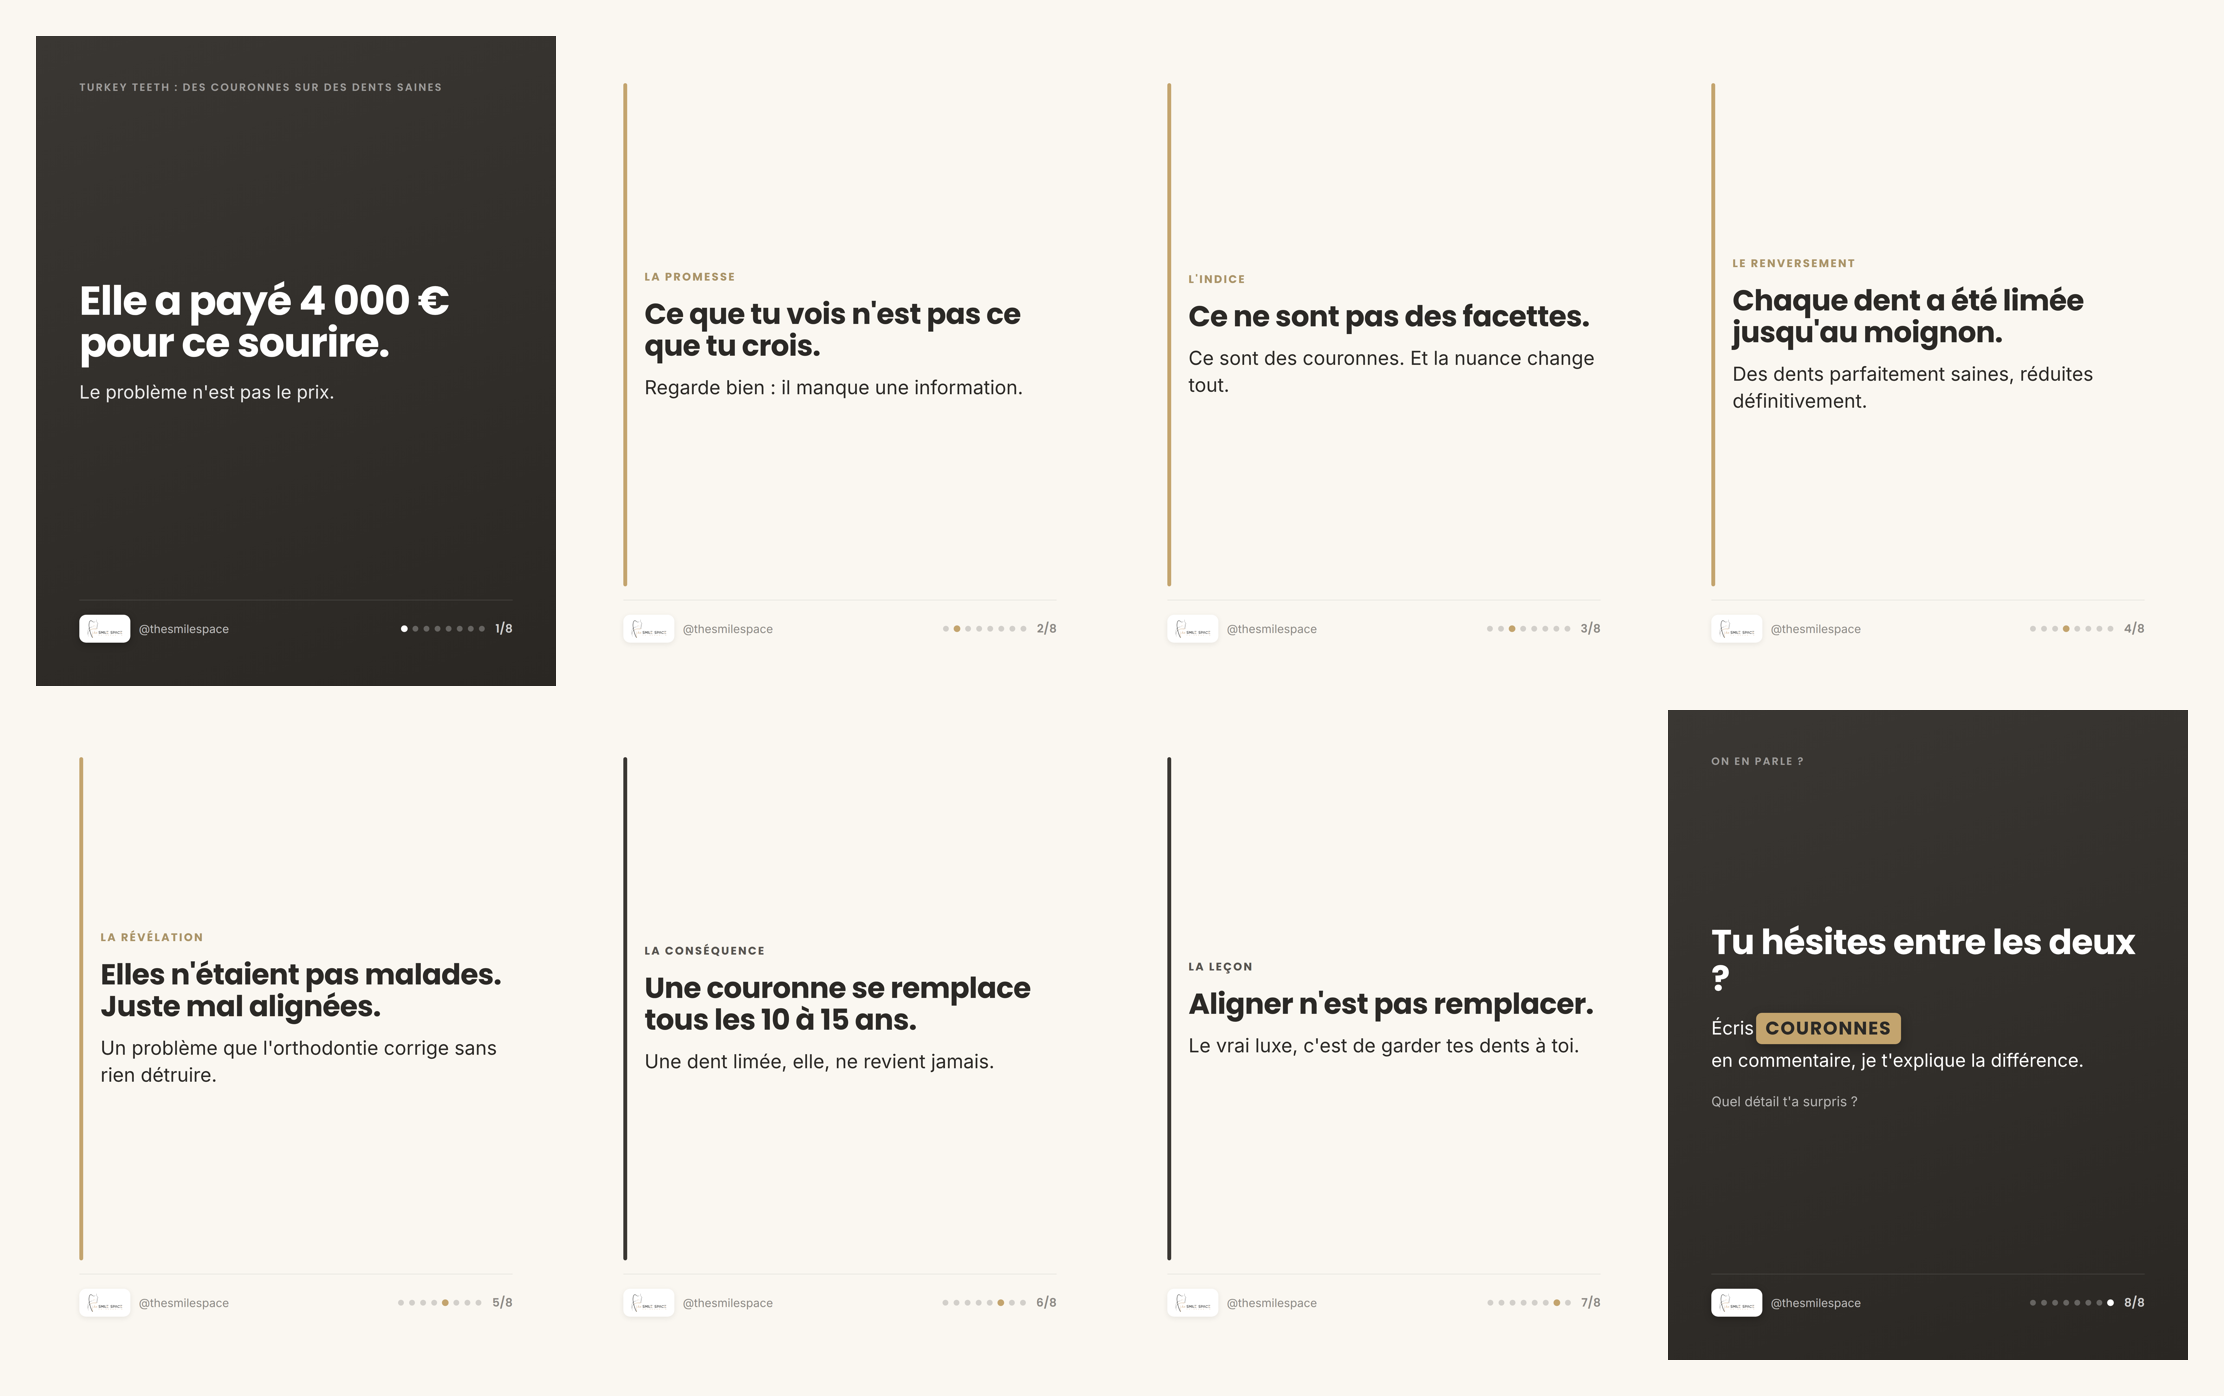
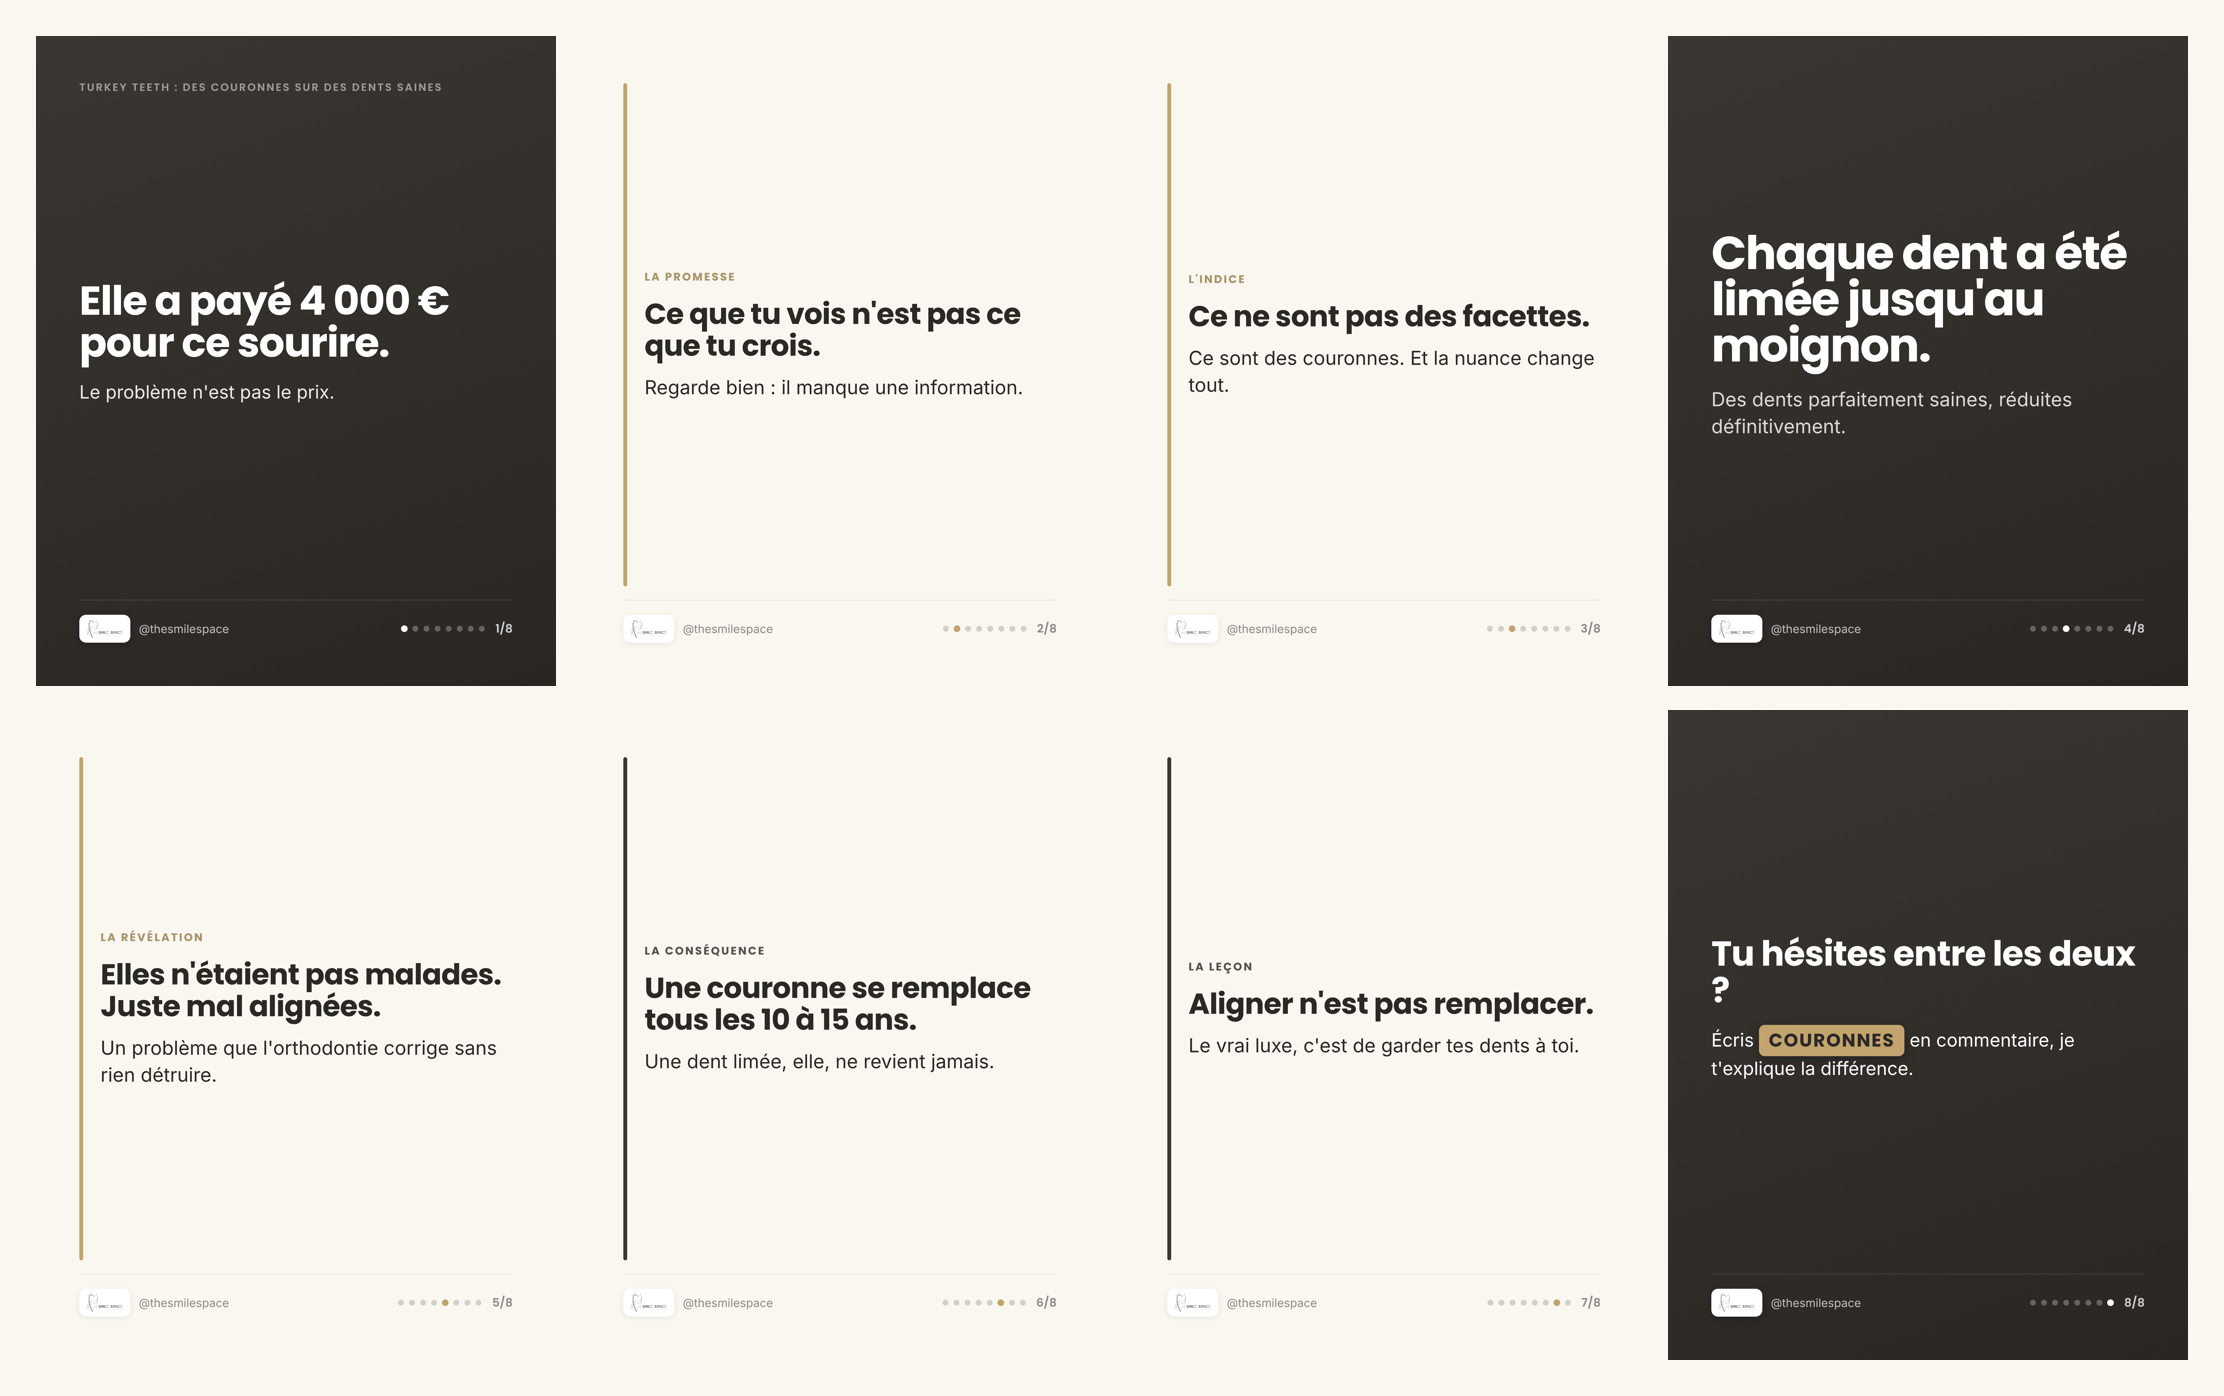
Gabarit v2.3 : renversement plein sombre + CTA titre/texte + zones image par marqueurs
- renversement (curiosity_loop) : fond sombre plein, titre XXL, sans image
- cta : titre + texte uniquement (mot-clé après « Écris » surligné depuis le
  texte, sans lire de métadonnée) ; plus d'eyebrow ni de cta_engagement
- métadonnées reel/gabarit/cta_conversion/cta_engagement jamais dessinées
- zones image pilotées par marqueurs [..] dans le texte (placeholder légendé)
- config.js : remplace photoTypes par la détection de marqueurs
- échantillon validé : TSS-ORTHO-021 (curiosity_loop, 8 slides) re-rendu

Claude-Session: https://claude.ai/code/session_014brP78CXMSfVZFDbExkY7E

Changed region(s): [[0.7446, 0.0, 0.9928, 0.4928], [0.7756, 0.6468, 0.9618, 0.8009]]

diff --git a/template.js b/template.js
@@ -1,7 +1,11 @@
 // =====================================================================
-//  GABARIT — une slide = 1080 x 1350
-//  Système piloté par le RÔLE de chaque slide (schéma 27 carrousels).
-//  Rôles : cover (hook) · closer (cta) · visual (photo) · text (éditorial)
+//  GABARIT — une slide = 1080 x 1350  (schéma 27 carrousels, v2.3)
+//  Piloté par le rôle de chaque slide :
+//    hook -> couverture sombre · cta -> clôture sombre
+//    renversement -> pic de tension sombre plein (curiosity_loop)
+//    marqueur [..] dans le texte -> zone image placeholder
+//    sinon -> contenu éditorial (badge/kicker + titre + texte)
+//  Métadonnées jamais dessinées : reel, gabarit, cta_conversion, cta_engagement.
 // =====================================================================
 
 const esc = (s = "") =>
@@ -11,10 +15,9 @@ const esc = (s = "") =>
     .replace(/>/g, "&gt;")
     .replace(/"/g, "&quot;");
 
-// Métadonnées par type de slide : libellé de badge + tonalité (couleur du filet/badge).
-//   tone: "accent" (or, insight/twist) · "brand" (anthracite, solution/action) · "plain" (explicatif)
+// Métadonnées par type : libellé + tonalité (couleur du filet/badge)
+//   accent = or (insight/twist) · brand = anthracite (solution/action) · plain = neutre
 const TYPE_META = {
-  // révélation / bascule / insight -> or
   revelation: { label: "LA RÉVÉLATION", tone: "accent" },
   renversement: { label: "LE RENVERSEMENT", tone: "accent" },
   mythe: { label: "LE MYTHE", tone: "accent" },
@@ -22,11 +25,8 @@ const TYPE_META = {
   indice: { label: "L'INDICE", tone: "accent" },
   nuance: { label: "LA NUANCE", tone: "accent" },
   difference: { label: "LA DIFFÉRENCE", tone: "accent" },
-  // observation patient
   identification: { label: "CE QUE TU VOIS", tone: "plain" },
   repere: { label: "LE REPÈRE", tone: "plain" },
-  indice_visuel: { label: "L'INDICE", tone: "plain" },
-  // explicatif -> neutre
   explication: { label: "POURQUOI", tone: "plain" },
   causes: { label: "LES CAUSES", tone: "plain" },
   croissance: { label: "LA CROISSANCE", tone: "plain" },
@@ -36,7 +36,6 @@ const TYPE_META = {
   diagnostic: { label: "LE DIAGNOSTIC", tone: "plain" },
   experience: { label: "L'EXPÉRIENCE", tone: "plain" },
   timing: { label: "LE TIMING", tone: "plain" },
-  // solution / action / leçon -> anthracite
   solution: { label: "LA SOLUTION", tone: "brand" },
   options: { label: "LES OPTIONS", tone: "brand" },
   alternative: { label: "L'ALTERNATIVE", tone: "brand" },
@@ -55,24 +54,39 @@ const TYPE_META = {
   utilite: { label: "L'UTILITÉ", tone: "brand" },
 };
 
-// Libellé lisible pour un type inconnu : "mon_type" -> "MON TYPE"
-const prettyLabel = (type = "") =>
-  type.replace(/_/g, " ").toLocaleUpperCase("fr");
+// Types affichant une pastille badge (comme « CE QUE TU VOIS » des 20)
+const BADGE_TYPES = new Set(["identification"]);
+// Slides à fond sombre plein
+const DARK_TYPES = new Set(["hook", "cta", "renversement"]);
 
-function metaFor(type) {
-  return TYPE_META[type] || { label: prettyLabel(type), tone: "accent" };
+const prettyLabel = (t = "") => t.replace(/_/g, " ").toLocaleUpperCase("fr");
+const metaFor = (t) => TYPE_META[t] || { label: prettyLabel(t), tone: "accent" };
+
+// Extrait les marqueurs [..] du texte -> { labels[], text }
+function splitMarkers(texte = "") {
+  const re = /\[([^\]]+)\]/g;
+  const labels = [];
+  let m;
+  while ((m = re.exec(texte))) labels.push(m[1].trim());
+  const text = texte.replace(re, "").replace(/\s{2,}/g, " ").trim();
+  return { labels, text };
 }
 
-// Rangée de N points de progression
+// Surligne le mot-clé situé après « Écris » (issu du texte, pas d'une métadonnée)
+function highlightEcris(texte = "") {
+  return esc(texte).replace(
+    /(Écris\s+)([0-9A-ZÀ-Ÿ][0-9A-ZÀ-Ÿ'’-]{1,})/u,
+    (_, p1, p2) => `${p1}<span class="cta-key">${p2}</span>`
+  );
+}
+
 function dots(activeIndex, total) {
   let out = '<div class="dots">';
-  for (let i = 0; i < total; i++) {
+  for (let i = 0; i < total; i++)
     out += `<span class="dot${i === activeIndex ? " on" : ""}"></span>`;
-  }
   return out + "</div>";
 }
 
-// Pied de page commun (logo/marque + handle) + n/N + dots
 function footer({ n, total, index, cfg, logoDataUri, onBrand }) {
   const brandMark = logoDataUri
     ? `<span class="logo-chip"><img class="logo" src="${logoDataUri}" alt="${esc(cfg.brandName)}"/></span>`
@@ -90,30 +104,19 @@ function footer({ n, total, index, cfg, logoDataUri, onBrand }) {
     </footer>`;
 }
 
-function photoZone(label) {
-  return `<div class="photozone"><span>${esc(label)}</span></div>`;
+// Rangée de cadres image placeholder
+function frames(labels) {
+  const cells = labels
+    .map((l) => `<div class="frame"><span>${esc(l)}</span></div>`)
+    .join("");
+  return `<div class="frames n${labels.length}">${cells}</div>`;
 }
 
-// Enveloppe le mot-clé (cta_conversion) dans une puce accent, au sein du texte.
-function highlightKeyword(texte, keyword) {
-  const safe = esc(texte);
-  if (!keyword) return safe;
-  const k = esc(keyword);
-  const idx = safe.indexOf(k);
-  if (idx < 0) return safe;
-  return (
-    safe.slice(0, idx) +
-    `<span class="cta-key">${k}</span>` +
-    safe.slice(idx + k.length)
-  );
-}
-
-// Corps de la slide selon son rôle
 function bodyFor({ slide, carrousel, cfg }) {
   const type = slide.type || "";
   const titre = esc(slide.titre || "");
-  const texte = esc(slide.texte || "");
-  const isPhoto = (cfg.photoTypes || []).includes(type);
+  const { labels, text } = splitMarkers(slide.texte || "");
+  const texteEsc = esc(text);
 
   // --- Couverture (hook) ---
   if (type === "hook") {
@@ -121,36 +124,49 @@ function bodyFor({ slide, carrousel, cfg }) {
       <div class="eyebrow">${esc(carrousel.sujet || "")}</div>
       <div class="body body-cover">
         <h1 class="cover-title">${titre}</h1>
-        <p class="cover-sub">${texte}</p>
+        <p class="cover-sub">${texteEsc}</p>
       </div>`;
   }
 
-  // --- Clôture (cta) ---
-  if (type === "cta") {
-    const keyword = carrousel.cta_conversion || "";
-    const engage = carrousel.cta_engagement
-      ? `<p class="cta-engage">${esc(carrousel.cta_engagement)}</p>`
-      : "";
+  // --- Pic de tension (renversement, curiosity_loop) ---
+  if (type === "renversement") {
     return `
-      <div class="eyebrow">On en parle ?</div>
+      <div class="body body-tension">
+        <h1 class="tension-title">${titre}</h1>
+        <p class="tension-sub">${texteEsc}</p>
+      </div>`;
+  }
+
+  // --- Clôture (cta) : titre + texte uniquement ---
+  if (type === "cta") {
+    return `
       <div class="body body-cover">
         <h1 class="lesson-title">${titre}</h1>
-        <p class="cta-line">${highlightKeyword(slide.texte || "", keyword)}</p>
-        ${engage}
+        <p class="cta-line">${highlightEcris(text)}</p>
       </div>`;
   }
 
   const meta = metaFor(type);
   const badgeClass = meta.tone === "accent" ? "badge-accent" : "badge-neutral";
 
-  // --- Slide visuelle (photo) ---
-  if (isPhoto) {
+  // --- Zone image via marqueur(s) [..] ---
+  if (labels.length) {
     return `
       <div class="badge ${badgeClass}">${esc(meta.label)}</div>
       <div class="body body-visual">
         <h2 class="visual-title">${titre}</h2>
-        <p class="statement">${texte}</p>
-        ${photoZone("PHOTO PATIENT")}
+        ${texteEsc ? `<p class="statement">${texteEsc}</p>` : ""}
+        ${frames(labels)}
+      </div>`;
+  }
+
+  // --- Slide à badge pastille (ex. identification) ---
+  if (BADGE_TYPES.has(type)) {
+    return `
+      <div class="badge ${badgeClass}">${esc(meta.label)}</div>
+      <div class="body body-badge">
+        <h2 class="text-title">${titre}</h2>
+        <p class="text-para">${texteEsc}</p>
       </div>`;
   }
 
@@ -160,15 +176,14 @@ function bodyFor({ slide, carrousel, cfg }) {
     <div class="body body-text ${ruleClass}">
       <div class="content-kicker">${esc(meta.label)}</div>
       <h2 class="text-title">${titre}</h2>
-      <p class="text-para">${texte}</p>
+      <p class="text-para">${texteEsc}</p>
     </div>`;
 }
 
-// Gabarit complet d'une slide -> document HTML autonome
 function slideHTML({ slide, carrousel, index, total, cfg, fontsCss, logoDataUri }) {
   const { largeur, hauteur } = cfg.format;
   const c = cfg.colors;
-  const onBrand = slide.type === "hook" || slide.type === "cta";
+  const onBrand = DARK_TYPES.has(slide.type);
 
   return `<!doctype html>
 <html lang="fr">
@@ -193,7 +208,7 @@ body{font-family:var(--f-body);-webkit-font-smoothing:antialiased;text-rendering
   padding:90px;display:flex;flex-direction:column;
   background:var(--light);color:var(--dark);
 }
-.slide.type-hook,.slide.type-cta{
+.slide.type-hook,.slide.type-cta,.slide.type-renversement{
   background:linear-gradient(160deg, var(--brand) 0%, var(--brand-deep) 100%);
   color:var(--onbrand);
 }
@@ -203,7 +218,7 @@ body{font-family:var(--f-body);-webkit-font-smoothing:antialiased;text-rendering
   font-family:var(--f-title);font-weight:600;letter-spacing:.14em;
   text-transform:uppercase;font-size:22px;opacity:.75;
 }
-.slide.type-hook .eyebrow,.slide.type-cta .eyebrow{color:rgba(255,255,255,.7);}
+.slide.type-hook .eyebrow{color:rgba(255,255,255,.7);}
 
 /* ---------- BADGES ---------- */
 .badge{
@@ -219,36 +234,41 @@ body{font-family:var(--f-body);-webkit-font-smoothing:antialiased;text-rendering
 
 /* Couverture (hook) + clôture (cta) */
 .body-cover{justify-content:center;gap:32px;}
-.cover-title{
-  font-family:var(--f-title);font-weight:700;font-size:84px;line-height:1.04;
-  letter-spacing:-.02em;
-}
+.cover-title{font-family:var(--f-title);font-weight:700;font-size:84px;line-height:1.04;letter-spacing:-.02em;}
 .cover-sub{font-size:38px;line-height:1.4;opacity:.9;max-width:840px;font-weight:400;}
 
-.lesson-title{
-  font-family:var(--f-title);font-weight:700;font-size:72px;line-height:1.06;
-  letter-spacing:-.015em;max-width:900px;
-}
-.cta-line{font-size:38px;line-height:1.4;max-width:880px;display:flex;flex-wrap:wrap;align-items:center;gap:8px 4px;}
-.cta-engage{margin-top:8px;font-size:28px;color:rgba(255,255,255,.65);}
+.lesson-title{font-family:var(--f-title);font-weight:700;font-size:72px;line-height:1.06;letter-spacing:-.015em;max-width:900px;}
+.cta-line{font-size:38px;line-height:1.4;max-width:880px;}
 .cta-key{
   font-family:var(--f-title);font-weight:700;letter-spacing:.06em;
   background:var(--accent);color:var(--dark);padding:6px 20px;border-radius:12px;
   box-shadow:0 8px 24px rgba(0,0,0,.28);display:inline-block;
 }
 
-/* Slides visuelles (photo) */
+/* Pic de tension (renversement) — trancher visuellement */
+.body-tension{justify-content:center;gap:36px;}
+.tension-title{font-family:var(--f-title);font-weight:700;font-size:96px;line-height:1.0;letter-spacing:-.025em;}
+.tension-sub{font-size:40px;line-height:1.38;opacity:.82;max-width:860px;font-weight:400;}
+
+/* Slides visuelles (marqueurs image) */
 .body-visual{justify-content:flex-start;gap:24px;padding-top:34px;}
 .visual-title{font-family:var(--f-title);font-weight:700;font-size:52px;line-height:1.1;letter-spacing:-.01em;}
 .statement{font-size:38px;line-height:1.3;font-weight:400;max-width:880px;color:var(--dark);}
-.photozone{
+.frames{flex:1;min-height:0;display:flex;gap:26px;}
+.frames.n1{flex-direction:column;}
+.frame{
   flex:1;min-height:0;border-radius:24px;background:var(--ph);
-  border:3px dashed #D8CFC0;display:flex;align-items:center;justify-content:center;
+  border:3px dashed #D8CFC0;display:flex;align-items:flex-end;justify-content:center;padding:24px;
 }
-.photozone span{
-  font-family:var(--f-title);font-weight:600;letter-spacing:.12em;
-  text-transform:uppercase;font-size:26px;color:var(--pht);
+.frames.n1 .frame{align-items:center;}
+.frame span{
+  font-family:var(--f-title);font-weight:700;letter-spacing:.12em;text-transform:uppercase;
+  font-size:26px;color:var(--pht);background:#fff;padding:8px 18px;border-radius:10px;
 }
+.frames.n1 .frame span{background:transparent;}
+
+/* Slide à badge pastille */
+.body-badge{justify-content:center;gap:26px;padding-top:20px;}
 
 /* Slides texte éditoriales */
 .body-text{justify-content:center;gap:26px;padding-left:44px;position:relative;}
@@ -277,7 +297,7 @@ body{font-family:var(--f-body);-webkit-font-smoothing:antialiased;text-rendering
 .foot.on-brand .logo-chip{box-shadow:0 4px 16px rgba(0,0,0,.28);}
 .logo{height:40px;width:auto;object-fit:contain;display:block;}
 .brandtext{font-family:var(--f-title);font-weight:700;font-size:28px;color:var(--brand);}
-.slide.type-hook .brandtext,.slide.type-cta .brandtext{color:#fff;}
+.slide.type-hook .brandtext,.slide.type-cta .brandtext,.slide.type-renversement .brandtext{color:#fff;}
 .handle{font-size:24px;color:var(--muted);}
 .foot.on-brand .handle{color:rgba(255,255,255,.7);}
 .foot-right{display:flex;align-items:center;gap:22px;}

diff --git a/config.js b/config.js
@@ -11,9 +11,10 @@ module.exports = {
     "20 carrousels orthodontie The Smile Space v3 diagnostic.json",
   ],
 
-  // Types de slides qui réservent une zone image (placeholder gris).
-  // Vide = tout en texte. Ex. ["identification"] ou ["identification","diagnostic"].
-  photoTypes: ["identification"],
+  // Les zones image sont pilotées par des marqueurs dans le texte des slides :
+  //   [PHOTO PATIENT] · [IMAGE CLINIQUE / RADIO] · [AVANT] [APRÈS] · [SCHÉMA — …]
+  // → un cadre vide légendé est dessiné, le reste du texte devient la légende.
+  // (Aucun marqueur = tout en texte.)
 
   // Dossier de sortie
   outDir: "sortie",
